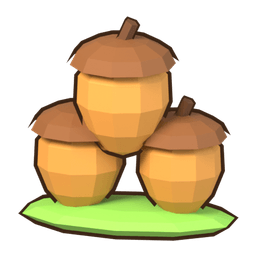
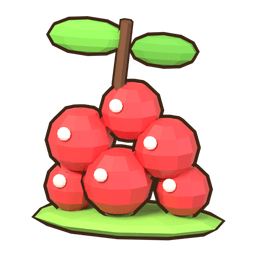
art(quest): 2번 "나무 열매 모으기" 아이콘 — 도토리 → 빨간 열매 송이 (relic_icons.py q_acorns, 같은 로우 폴리)
도토리 콘텐츠 삭제(5bff179)에 맞춰 이름에 이어 그림도. 파일 이름(id acorns)은 저장 호환으로 그대로.
실터치 모바일 재검사: WebKit(아이폰 15 · SE) 42 PASS · 안드로이드 크롬(S24 · A) 42 PASS

diff --git a/art-gen/blender/relic_icons.py b/art-gen/blender/relic_icons.py
@@ -255,17 +255,16 @@ def q_twigs(_):
 
 
 def q_acorns(_):
-    def acorn(at, s):
-        ob('nut', C.ellipsoid(at, (0.2 * s, 0.19 * s, 0.24 * s), egg=-0.25), m('nut', '#c9893a'))
-        cap = C.ellipsoid(at + Vector((0, 0, 0.17 * s)), (0.23 * s, 0.22 * s, 0.12 * s))
-        for v in [v for v in cap.verts if v.co.z < at.z + 0.13 * s]:
-            cap.verts.remove(v)
-        ob('cap', cap, m('cap', '#7a4a22'))
-        ob('stem', C.tube([at + Vector((0, 0, 0.27 * s)), at + Vector((0.04 * s, 0, 0.36 * s))], 0.03 * s, seg=5), m('stem', '#5a3418'), O * 0.6)
-    acorn(Vector((-0.28, 0.05, -0.32)), 1.2)
-    acorn(Vector((0.3, 0.05, -0.32)), 1.15)
-    acorn(Vector((0.0, -0.08, 0.1)), 1.3)
-    ob('base', C.ellipsoid(Vector((0, 0.05, -0.6)), (0.62, 0.32, 0.08)), m('grass', '#7cc04a'))
+    # 나무 열매 모으기 (2026-10-26 사용자: "도토리 콘텐츠 삭제" — 이름을 열매로 바꾸며 그림도 도토리 → 빨간 열매 송이)
+    stem_top = Vector((0.0, 0.0, 0.62))
+    ob('stem', C.tube([stem_top, Vector((-0.05, 0, 0.2)), Vector((0.0, 0, -0.05))], 0.035, seg=6), m('stem', '#5a3418'), O * 0.6)
+    for k, (at, r) in enumerate([((-0.3, 0.0, -0.18), 0.21), ((0.26, 0.0, -0.2), 0.2), ((-0.04, -0.06, -0.42), 0.22), ((0.02, 0.04, 0.02), 0.19), ((-0.36, 0.04, -0.5), 0.17), ((0.36, 0.04, -0.48), 0.17)]):
+        c = Vector(at)
+        ob(f'berry{k}', C.ellipsoid(c, (r, r * 0.95, r)), m('berry', '#d8323a', rough=0.45))
+        ob(f'shine{k}', C.ellipsoid(c + Vector((-0.06 * r / 0.2, -0.9 * r, 0.08 * r / 0.2)), (0.045, 0.02, 0.045)), m('shine', '#ffd0d0', rough=0.3), 0)
+    ob('leafL', C.ellipsoid(Vector((-0.26, 0.02, 0.5)), (0.26, 0.05, 0.11)), m('leaf', '#5fae3a'))
+    ob('leafR', C.ellipsoid(Vector((0.24, 0.02, 0.44)), (0.22, 0.05, 0.1)), m('leaf', '#4f9a30'))
+    ob('base', C.ellipsoid(Vector((0, 0.05, -0.7)), (0.62, 0.32, 0.07)), m('grass', '#7cc04a'))
 
 
 def q_dam_patch(_):
